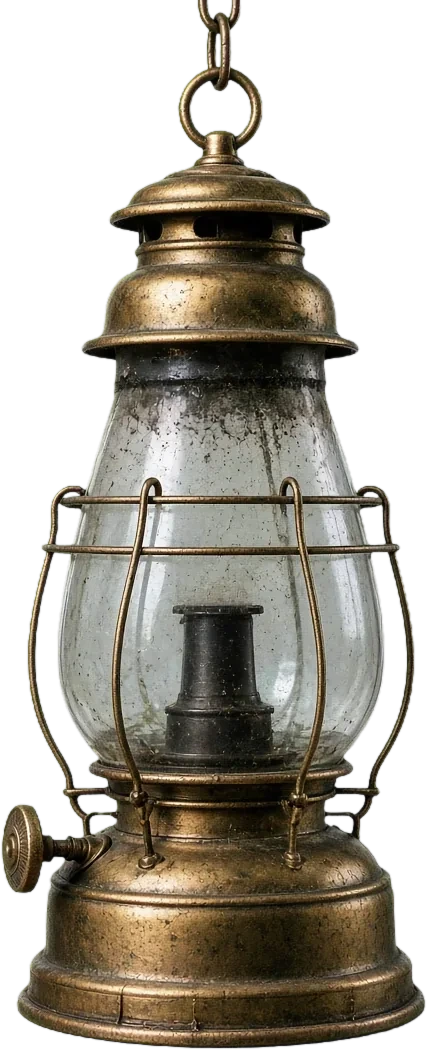
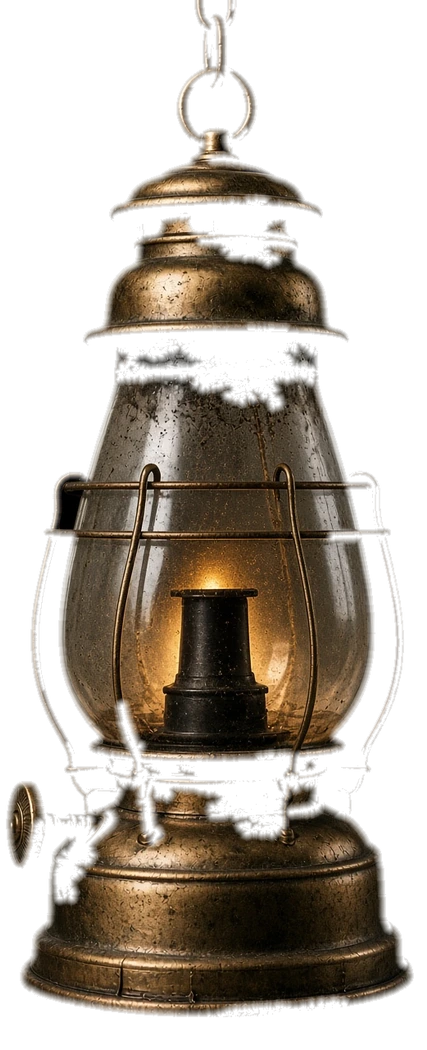
HD ship: final deck/lantern retina pack + srcset
Install portfolio-add/ship-hd drop-ins (deck, deck@2x, deck-m,
deck-m@2x, lantern, lantern@2x, hero fallback). Retune hang points
per README; keep starfield behind #ship so stars never land on wood.

diff --git a/story.html b/story.html
@@ -5,7 +5,7 @@
 <div class="scene" aria-hidden="true"><div id="scene-fb" class="scene-fallback"></div><canvas id="scene-gl" class="scene-gl"></canvas><canvas id="scene-2d" class="scene-2d"></canvas></div>
 <div id="dawn" class="dawn" aria-hidden="true"></div>
 <canvas id="scene-top" class="scene-top" aria-hidden="true"></canvas>
-<div class="ship" id="ship" aria-hidden="true"><img id="deck" src="" alt="" decoding="async"><div class="lpool" id="lpool"></div><div class="lglow" id="lglow"></div><div class="lantern" id="lantern"><img src="assets/sky/lantern.webp" alt=""><canvas id="flame"></canvas></div></div>
+<div class="ship" id="ship" aria-hidden="true"><img id="deck" src="" alt="" decoding="async" draggable="false"><div class="lpool" id="lpool"></div><div class="lglow" id="lglow"></div><div class="lantern" id="lantern"><img src="assets/sky/lantern.webp" srcset="assets/sky/lantern.webp 427w, assets/sky/lantern@2x.webp 854w" sizes="(max-width:760px) 12vw, 10vw" alt="" draggable="false"><canvas id="flame"></canvas></div></div>
 <nav class="nav glass"><a href="index.html" class="brand">Charles Leone</a><span><a href="story.html" aria-current=page>My Story</a><a href="projects.html">Projects</a><a href="https://github.com/charlesanthonyleone">GitHub</a></span></nav>
 <main class="wrap"><div id="logbar" class="logbar"></div><section id="story" class="essay log glass"><p class="eyebrow">Ship’s log · My Story</p><h2 class="sh">In my own words</h2><p class="meta">12 min read · 2,693 words · unedited, as written</p><div class="prose"><p>Hello! My name is Charles; it's nice to meet you in this little format of communication. I'm sorry but I will not make this professional. It will have grammatical errors - spelling errors - and a LOT of minus dashes. I can't help it, sorry. I imagine the story I am going to tell you won't be very different in its essence from a lot of your students, but I hope I can make a case worthy of understanding and accommodating to my circumstances. Another heads up? I'm not going to go back and edit what I type. I am going to write from my heart in one long format - and hope you can overlook your ego and appreciate it, as much as I can swallow my fear and apply to something that can squash my sense of self. I am going to say a lot of loaded things, as you just read. How dare I assume you have an ego? Everyone who gets into a position such as yours has one, because you deserve one. Your ego is all your hard work defending the time afforded it. Someone who can't even respect your time enough to make something professional and proper? That's a bin thrower. But again, someone in your position does also have a sense of awe; so let me stop monologuing and try to feed into that.</p><p>I don't have a GED. I don't have a high school diploma. Let's just throw that out there first things first. There's a good reason for it, though. My mother was living her first life, and she was learning how to love herself, while learning to love the hand of cards she was dealt with. My father promised my mother that when he got healthier, he would move to Trenton, New Jersey - from Johnstown, Pennsylvania. They had a 20ish year gap, her 37ish. My father 55. He didn't get healthy, so they divorced. My incentive for getting good grades? Was going to see my father. As you can imagine a little boy who needed his role model in his life - he was a rockstar. He was the first to get his mathematic equations done, and the one with the most correct answers. It wasn't a competition with everyone else - infact, he encouraged everyone around him to learn math the same way his mind understood it. He wasn't a teacher yet, so it usually came off wrong. One of his friends, Marlon, locked in in his own way. They would finish their math work together with the speed of lightning, then go to the back of the classroom, draw little racetracks on paper, and quietly drive their cars while everyone else finished their work. Did I mention that my father would call me from Johnstown every night, to say a nightly prayer, and I'd run to the bottom of my apartment stairs to have my private little convo? Well, one of these nights, my father, in a short story - told me he only had two days to live. So, I hopped on a train with my mom and went to see him. She went back - I stayed. He had a pacemaker in his heart, and he pushed on for two weeks, dying.. God only knows how many times. We would play Bejeweled together and he'd give me the greatest advice, as a father soon to leave his young son would typically do. At least I'd hope that is what most fathers would do. </p><p>That taught me sacrifice. A day or two before he passed, I was sent back home. I think my mother came and picked me up - I don't really remember. But I do remember the phone call going to my mother, and not me, that he was no longer here. This time, I took the train ride alone. I was picked up by my siblings, ah. Did I mention I'm the 13th? My youngest sibling was Dorothy, nine years older than me, my mothers only other child. Her father went to prison for beating a man to death in a bar fight - a little while after my mom ran away and brought her to a woman's shelter. My sister was.. the black sheep before I was. She tried everything she could to ask for help - and through her pain, I learned to love myself. Unfortunately when I was 16, my mother broke it to me by saying "remember your sisters temptations..? her problems with drugs..?" "Mhm...?" "well this time she didn't make it." - I went numb. What an insensitive way to say that. I didn't know whether to hurt for my mother, feel pain for myself - or go back to the memory when I overdosed after being placed in a group home at 14, and my mother never coming to the hospital. Does she care about my sister? Why isn't she crying? I was coming home to eat dinner and go back out with my friends - I stepped in, heard the news, stepped out - sat down in a chair outside, and my friends knowing something was wrong - I simply explained she died, shook it off, stood up, hopped, and said "OKKKKAY! WHAT'S THE MOVES!" and there began my numbing. Psychedelics. Weed. This was all sat 16, the alcohol didn't start until 23, but that's dealt with. Jesus taught me to be full of the spirit, and not to carouse. We got off track, but these things are still relevant. Let's go back in time to why I even mentioned all of this.</p><p>So, my dad died. I remember being at his funeral, touching his cold face, and asking someone.. I think my other sister, Amy? She's approaching her 50's, my second youngest sibling. I asked her, or someone, why, and right there over his dead body, I was explained the embalming process. I was also suggested to put my favorite stuffed animal in his coffin, I guess someone thought that was the time for me to grow up. I couldn't, and instead, I took it as 'sacrifice something you love for him.' - and so I vowed to never listen to country music again. I used to ask my friends to turn it off. But I've recently reconciled with the fact that I was a young man misinterpreting someone else's suggestion. Not even a year later, my grandfather - the man who replaced my father, died. I too was brought into a hospital room and saw his dead body. Instant flashbacks - I stuffed my face in the corner of the hospital room and tried to stay quiet so I didn't interrupt anyone mourning for him. On one hand, I attended my fathers funeral without my mother, on the other hand, I relived the experience at the feet of her lifeless father. He built a pocono house that they eventually sold - I never got to learn how to ski or snowboard. All my cousins did. Now, this is not a pity story. So with that miniscule background that comes nowhere close to the other soul shattering things I have lived through (such as being catfished by one person pretending to be 30 different real people, by blackmailing them - for years upon years, and completely altering my life path, as I tried to be cool and fit in with them) let's explain why I actually went into it.</p><p>30 different schools I went to, before I even got to Highschool. In fact, I was expelled from numerous schools by the time 5th grade rolled around because I was screaming for attention. Brought a paintball gun to a school (with no pellets or tank) - shit in another schools sink (ridiculous, and seeking attention.) 7th grade my mothers roommate gave me a bunch of weed to sell in school, and I'm only saying that because he too overdosed. I got caught, sent to alternative school. What did that produce? It produced someone who was learning decimals at one point in the year, fractions in another, and algebra in another - just to move and be placed back on fractions, or now we're doing linear equations. I remember one year I went from learning how shapes function, straight into algebra, back into charts. English? Stellar. Science? Stellar. The things that didn't require steps, but moreso just took common sense? Because I went to so many schools, the internet became my safe space. Not that safe, however. I grew up on Xat - basically an unmoderated chat platform. I was 12 years old hanging around Team Poison. I was 10 years old hanging around groups like NeoN. Two prestigious groups in the blackhat community. I tried, but never succeeded. I couldn't even portforward my router. Despite moving nearly a hundred times - we never could get an ISP who'd unlock it. I call it fate. Call it extreme chance if you'd like. I taught myself how to type properly. Then? In order to fit in? I taught myself how to social engineer. Here? I got respect. I was appreciated. Why would I do work for a teacher who can't think the way I can? The only thing I cared about was merely passing the EOL tests. </p><p>Fast forward - now I'm 14 and I'm breaking into peoples school computers and making admin accounts. Do I know how? Do I even know what the processes are? No. What I am great at - is relentlessly pursuing a problem until I acquire the right solution. When I was 9, I coined the term 'every problem has a thousand solutions' and I live by it to this day, even though I regard Jesus Christ as the one true answer. That may sound like a gimmick - please don't take it as one. I'm not a hyperrational Christian, although I do respect all theologies. (I believe the tower of Babel was destroyed because of Hubris, and different nations, cultures, and ideologies are just different bricks waiting to admit that the true mortar, is God. That when we accept that, we will be able to utilize spiral dynamics to get to certain places in space.) Back to the story - now my school is asking me how I'm doing it. They're still not answering any of my needs. They're not trying to help me learn anything. At this point - I don't even have any homework. This is a school with no sports teams, so what do I do? I conjure a plan to incentivize students to, if they behave proper - can go to other schools and practice with them. Because the goal of alternative school is phasing out, and rejoining a school. So it's a great incentive as well as a tool to build a connection and goal system to bring students back into clean education. My ambition? The way I see the world? I want to improve it. I've been hurt but I use my life to explain things - not to pity myself. I don't expect a handout from you guys, but I was recommended by one of your alumni to apply. I explained my schooling, and they said Carnegie is the place for minds like mine. Just be honest. Be myself. I may have taken that bit TOO MUCH to heart, but. Now? In a world where my pain is nothing but the fuel that empowers my pursuit of legacy - I have began building tools for humanity. Simultaneously? I have been getting streams of information. What am I ULTIMATELY applying to Carnegie for? What was that basic trauma dump for you to read? To understand that I was broken in more ways then one - but I am articulate. I am wise. I am confident, and a little brash, but not egotistical. What I have come to acquire, was one, given to me by God, and two, earned by acknowledging that the field is mine to till. I will only reap what only I sow. So I began sowing.</p><p>This essay is going to be attached to my portfolio, and in the portfolio are things I've built, and plan on building. I don't care to try and explain them, as I'd sit here for another 20 minutes typing endlessly and I feel bad as is. I also have an insane amount of energy. I can type like this for 6 hours straight and only feel the need to stretch. In fact, I love it. My mind loves going mind to keyboard. Get me going on politics, theology, economics, and the dichotomy between ALL of them. I'll go forever. Anyways. I'm writing this because I need help. I am able to tell AI what to do, and part of me since a child has believed it is my divine precedent. I always refused to learn how to code, or learn math - because I knew something would be able to do it for me. I don't care to learn equations. I don't care to spend time on math when a machine is able to dismantle and reconfigure it. Also? When I seek new forms of math (spiral dynamics) - I start conjuring things that no one else perceives. Recently I was wondering how sound travels through different objects, and utilizing that as a basis to test numerous frequencies to see what spirals (like a screw) through what materials best. The other day? I was thinking of how to further digest food outside of the body, like how the cow has four stomachs - with the new world of microbes - we can digest carbs and other weighty material into energy that can be consumed, granted the right combination is built. AI can do that. GNoMe?</p><p>I need to acquire the skills and background so I can begin studying and improving humanity in a way that isn't just hobby coding. I need the resources to network with like-minded, way more genius and well put together people. I am a kernel of creativity. I create. I see and imagine bizarre things. Just the way I ask questions is.. I won't toot my own horn. But I know how to compel both man and machine to burrow so deep into consciousness. I need guidance. I need structure. I need assistance in holding myself together long enough to learn tremendous things, and I am looking to become an alumni to somewhere that sees the light in me, and desires to mold it into a bonfire. I'm sorry - I wrote this straight from the heart and it is directly meant for Carnegie - but if I'm denied - I will very likely send this to other colleges just copy and pasted. Please, do not take that as an insult to your institution - furthermore? Please don't consider it lazy. I feel like taking it, fixing the names, is just a form of self-plagiarizing. The same way I feel about trying to type the perfect thing. Sit down, and how you feel in that moment? Get it out. If it's the right time, it's the right time. If not? It's not. I'm willing to hop on Khan Academy and learn whatever pre-requisites to get into whatever course. I don't want to - I'd rather a degree tailored to how I think, in a setting tailored to how I think. But that is insanely selfish, egotistical, and screams narcissistic visions of grandeur. Preferences, however, are not demands. And who am I to make those? I'm sorry for the format of this essay. I hope, however, it was a little refreshing. Thank you tremendously for your time, and again, if this goes elsewhere, please know I am a bit shameful for regurgitating and not typing you something with this much pinpointed desire. Then again who wants to constantly dive into these parts of themselves? I've saved this for either a college admission essay, or an autobiography (which would lean more towards discussing the incidents like the school sink.) I want people to know the shortcomings and embarrassments that compelled me to rise higher than my self-perceived station. </p></div></section>
 <section id="the-prompt" class="essay side glass">

diff --git a/assets/ship.js b/assets/ship.js
@@ -26,9 +26,9 @@ gl_FragColor=vec4(col,max(a,halo));}`));
 gl.linkProgram(pr);gl.useProgram(pr);const b=gl.createBuffer();gl.bindBuffer(gl.ARRAY_BUFFER,b);gl.bufferData(gl.ARRAY_BUFFER,new Float32Array([-1,-1,1,-1,-1,1,1,1]),gl.STATIC_DRAW);
 const l=gl.getAttribLocation(pr,'p');gl.enableVertexAttribArray(l);gl.vertexAttribPointer(l,2,gl.FLOAT,false,0,0);uT=gl.getUniformLocation(pr,'t');uI=gl.getUniformLocation(pr,'I');uS=gl.getUniformLocation(pr,'S');uR=gl.getUniformLocation(pr,'R')}
 cb.checked=on;cb.onchange=()=>{on=cb.checked;try{localStorage.setItem(K,on?'1':'0')}catch{};document.documentElement.classList.toggle('calm',!on);dispatchEvent(new Event('pfmotion'));on?loop():still()};
-const CFG={d:{src:'assets/sky/deck.webp',W:2560,H:1800,hx:.935,hy:.52,lh:.30,px:.86,py:.888,ax:.5,dy:.128},m:{src:'assets/sky/deck-m.webp',W:1328,H:1440,hx:.86,hy:.24,lh:.118,px:.75,py:.888,ax:.82,dy:.03,}};
+const CFG={d:{src:'assets/sky/deck.webp',W:2560,H:1800,hx:.90,hy:.52,lh:.30,px:.80,py:.888,ax:.5,dy:.128},m:{src:'assets/sky/deck-m.webp',W:1328,H:1440,hx:.86,hy:.28,lh:.12,px:.80,py:.888,ax:.82,dy:.03,}};
 let c,iw,ih,lw,lhh,DPR=Math.min(devicePixelRatio||1,2.5);
-function fit(){const w=innerWidth,h=innerHeight;c=w<760?CFG.m:CFG.d;if(!deck.src.endsWith(c.src))deck.src=c.src;
+function fit(){const w=innerWidth,h=innerHeight;c=w<760?CFG.m:CFG.d;if(!deck.src.endsWith(c.src.split('/').pop())){deck.src=c.src;deck.srcset=c.src===CFG.d.src?'assets/sky/deck.webp 2560w, assets/sky/deck@2x.webp 5120w':'assets/sky/deck-m.webp 1328w, assets/sky/deck-m@2x.webp 2656w';deck.sizes='100vw';}
 const s=Math.max(w/c.W,h/(c.H*.8))*1.04;iw=c.W*s;ih=c.H*s;const x=(w-iw)*c.ax,y=h-ih+ih*c.dy;
 ship.style.width=iw+'px';ship.style.height=ih+'px';ship.style.left=x+'px';ship.style.top=y+'px';
 lhh=ih*c.lh;lw=lhh*427/1050;Object.assign(lan.style,{width:lw+'px',height:lhh+'px',left:(c.hx*iw-lw/2)+'px',top:(c.hy*ih)+'px'});

diff --git a/projects.html b/projects.html
@@ -5,7 +5,7 @@
 <div class="scene" aria-hidden="true"><div id="scene-fb" class="scene-fallback"></div><canvas id="scene-gl" class="scene-gl"></canvas><canvas id="scene-2d" class="scene-2d"></canvas></div>
 <div id="dawn" class="dawn" aria-hidden="true"></div>
 <canvas id="scene-top" class="scene-top" aria-hidden="true"></canvas>
-<div class="ship" id="ship" aria-hidden="true"><img id="deck" src="" alt="" decoding="async"><div class="lpool" id="lpool"></div><div class="lglow" id="lglow"></div><div class="lantern" id="lantern"><img src="assets/sky/lantern.webp" alt=""><canvas id="flame"></canvas></div></div>
+<div class="ship" id="ship" aria-hidden="true"><img id="deck" src="" alt="" decoding="async" draggable="false"><div class="lpool" id="lpool"></div><div class="lglow" id="lglow"></div><div class="lantern" id="lantern"><img src="assets/sky/lantern.webp" srcset="assets/sky/lantern.webp 427w, assets/sky/lantern@2x.webp 854w" sizes="(max-width:760px) 12vw, 10vw" alt="" draggable="false"><canvas id="flame"></canvas></div></div>
 <nav class="nav glass"><a href="index.html" class="brand">Charles Leone</a><span><a href="story.html">My Story</a><a href="projects.html" aria-current=page>Projects</a><a href="https://github.com/charlesanthonyleone">GitHub</a></span></nav>
 <main class="wrap"><section id="projects"><div class="sec-h"><h2 class="sh">Projects</h2><p class="hint">Everything here is live unless marked private. IntelOasis and Scavengia lead as equal flagships; RecordOfLaw joins the hero row. Everything else follows.</p></div>
 <div class="note glass"><b>How I build:</b> I define each product, design it, and direct AI coding agents that write much of the code. I review, test, and ship. This is exactly why I want to study AI — to understand fundamentally the tools I already depend on.</div>

diff --git a/index.html b/index.html
@@ -5,7 +5,7 @@
 <div class="scene" aria-hidden="true"><div id="scene-fb" class="scene-fallback"></div><canvas id="scene-gl" class="scene-gl"></canvas><canvas id="scene-2d" class="scene-2d"></canvas></div>
 <div id="dawn" class="dawn" aria-hidden="true"></div>
 <canvas id="scene-top" class="scene-top" aria-hidden="true"></canvas>
-<div class="ship" id="ship" aria-hidden="true"><img id="deck" src="" alt="" decoding="async"><div class="lpool" id="lpool"></div><div class="lglow" id="lglow"></div><div class="lantern" id="lantern"><img src="assets/sky/lantern.webp" alt=""><canvas id="flame"></canvas></div></div>
+<div class="ship" id="ship" aria-hidden="true"><img id="deck" src="" alt="" decoding="async" draggable="false"><div class="lpool" id="lpool"></div><div class="lglow" id="lglow"></div><div class="lantern" id="lantern"><img src="assets/sky/lantern.webp" srcset="assets/sky/lantern.webp 427w, assets/sky/lantern@2x.webp 854w" sizes="(max-width:760px) 12vw, 10vw" alt="" draggable="false"><canvas id="flame"></canvas></div></div>
 <nav class="nav glass"><a href="index.html" class="brand">Charles Leone</a><span><a href="story.html">My Story</a><a href="projects.html">Projects</a><a href="https://github.com/charlesanthonyleone">GitHub</a></span></nav>
 <main class="wrap"><header class="hero"><p class="eyebrow">Portfolio</p><h1>Charles Leone</h1>
 <p class="lede">Self-taught builder of tools for humanity. I design real products and build them by directing AI — and now I want to understand AI from the ground up.</p>

diff --git a/assets/site.css b/assets/site.css
@@ -9,7 +9,7 @@ a{color:var(--gold2);text-decoration-color:rgba(246,220,166,.35);text-underline-
 .scene{position:fixed;inset:0;z-index:0;pointer-events:none;background:#02050b}
 .scene canvas,.scene-top{position:fixed;inset:0;width:100vw;height:100vh;display:block}
 .scene-top{z-index:9999;pointer-events:none}
-.scene-fallback{position:fixed;inset:0;display:none;background:radial-gradient(60% 18% at 32% 60%,rgba(150,170,200,.10),transparent 70%),linear-gradient(to bottom,#010309 0%,#050b16 52%,#0c1522 59.6%,#050b14 60.4%,#01050b 100%)}
+.scene-fallback{position:fixed;inset:0;display:none;background:url("sky/hero.webp") center/cover no-repeat,#02050b}
 .scene-fallback.on{display:block}
 /* settings */
 .scene-set{position:fixed;right:14px;bottom:14px;z-index:60;display:flex;flex-direction:column;align-items:flex-end;gap:8px}
@@ -125,3 +125,4 @@ html.calm .p-projects .proj{opacity:1;transform:none;filter:none;transition:none
 .lantern img{filter:contrast(1.04) saturate(1.06)}
 .pb p strong{color:var(--gold2);font-weight:700}
 .proj.feat .pb p strong{color:#ffe6b0}
+/* stars behind ship: .scene/.scene-top z-index 0/1, #ship z-index 2 — never draw stars on wood/lantern */

diff --git a/src/build.py b/src/build.py
@@ -14,7 +14,7 @@ def page(fn,title,cls,body,extra=''):
 <div class="scene" aria-hidden="true"><div id="scene-fb" class="scene-fallback"></div><canvas id="scene-gl" class="scene-gl"></canvas><canvas id="scene-2d" class="scene-2d"></canvas></div>
 <div id="dawn" class="dawn" aria-hidden="true"></div>{extra}
 <canvas id="scene-top" class="scene-top" aria-hidden="true"></canvas>
-<div class="ship" id="ship" aria-hidden="true"><img id="deck" src="" alt="" decoding="async"><div class="lpool" id="lpool"></div><div class="lglow" id="lglow"></div><div class="lantern" id="lantern"><img src="assets/sky/lantern.webp" alt=""><canvas id="flame"></canvas></div></div>
+<div class="ship" id="ship" aria-hidden="true"><img id="deck" src="" alt="" decoding="async" draggable="false"><div class="lpool" id="lpool"></div><div class="lglow" id="lglow"></div><div class="lantern" id="lantern"><img src="assets/sky/lantern.webp" srcset="assets/sky/lantern.webp 427w, assets/sky/lantern@2x.webp 854w" sizes="(max-width:760px) 12vw, 10vw" alt="" draggable="false"><canvas id="flame"></canvas></div></div>
 <nav class="nav glass"><a href="index.html" class="brand">Charles Leone</a><span>{nav}</span></nav>
 <main class="wrap">{body}{foot}</main>
 {gear}
